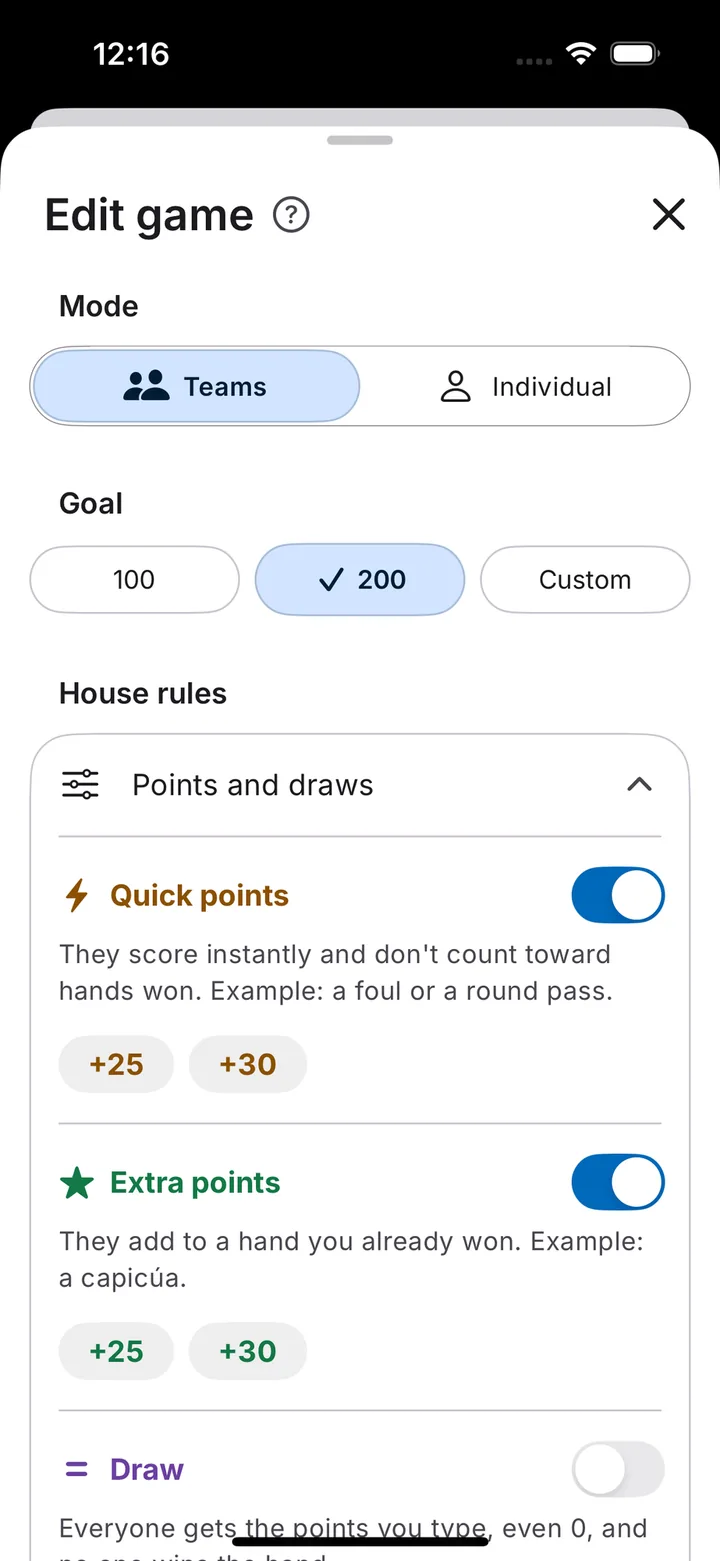
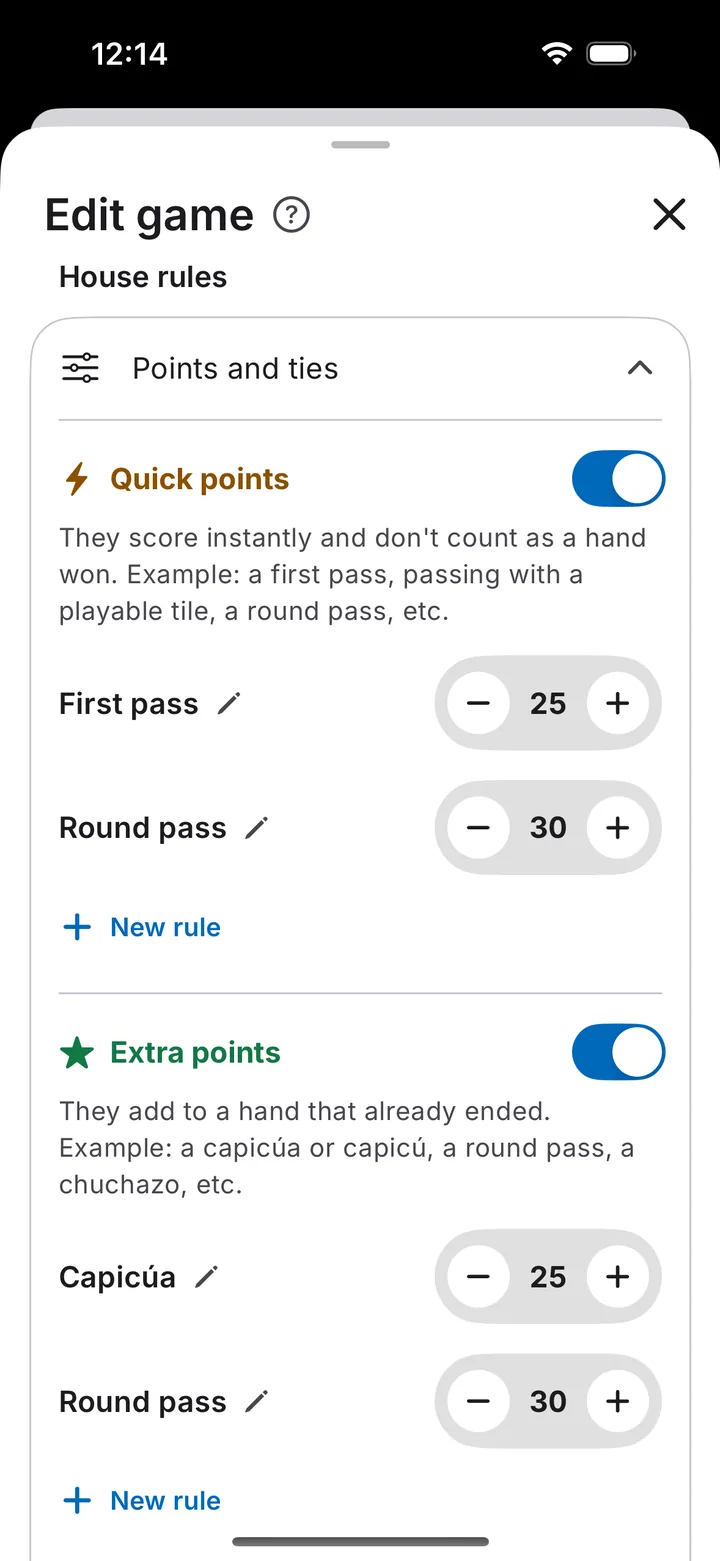
Update house-rule copy and screenshots
Clarify rule customization and bonus-point descriptions across all supported languages, and refresh the English and Spanish rule screenshots.

diff --git a/index.html b/index.html
@@ -321,11 +321,11 @@
           <div>
             <div class="icon i-green"><svg viewBox="0 0 24 24" fill="none" stroke="currentColor" stroke-width="2" stroke-linecap="round" stroke-linejoin="round" aria-hidden="true"><path d="M4 6h10"></path><path d="M18 6h2"></path><circle cx="16" cy="6" r="2"></circle><path d="M4 12h2"></path><path d="M10 12h10"></path><circle cx="8" cy="12" r="2"></circle><path d="M4 18h10"></path><path d="M18 18h2"></path><circle cx="16" cy="18" r="2"></circle></svg></div>
             <h3 data-i18n="r4.t">Tu mesa, tus reglas</h3>
-            <p data-i18n="r4.d">Juega como se juega en tu mesa. Elige la meta y activa solo las reglas que usan.</p>
+            <p data-i18n="r4.d">Juega como se juega en tu mesa. Elige la meta, cambia el nombre y los puntos de cada regla, y activa solo las que usan.</p>
             <ul class="rules">
               <li><span class="dot" style="background: var(--blue);"></span><span><b data-i18n="r4.l1b">Meta:</b> <span data-i18n="r4.l1">100, 200 o la que quieras.</span></span></li>
               <li><span class="dot" style="background: var(--gold);"></span><span><b data-i18n="r4.l2b">Puntos rápidos:</b> <span data-i18n="r4.l2">se anotan al instante.</span></span></li>
-              <li><span class="dot" style="background: var(--green);"></span><span><b data-i18n="r4.l3b">Puntos extra:</b> <span data-i18n="r4.l3">se suman a una mano que ya ganaste.</span></span></li>
+              <li><span class="dot" style="background: var(--green);"></span><span><b data-i18n="r4.l3b">Puntos extra:</b> <span data-i18n="r4.l3">se suman a una mano que ya terminó.</span></span></li>
               <li><span class="dot" style="background: #6B3FA0;"></span><span><b data-i18n="r4.l4b">Empate:</b> <span data-i18n="r4.l4">todos reciben los mismos puntos y nadie gana la mano.</span></span></li>
             </ul>
           </div>
@@ -387,7 +387,7 @@
           <li class="main"><svg viewBox="0 0 24 24" fill="none" stroke="currentColor" stroke-width="2.2" stroke-linecap="round" stroke-linejoin="round" aria-hidden="true"><path d="M6 20v-8"></path><path d="M12 20V5"></path><path d="M18 20v-11"></path></svg><div><b data-i18n="p3.t">Pantalla de juego avanzada</b><span data-i18n="p3.d">Manos ganadas y cronómetro de juego.</span></div></li>
           <li class="main"><svg viewBox="0 0 24 24" fill="none" stroke="currentColor" stroke-width="2" stroke-linecap="round" stroke-linejoin="round" aria-hidden="true"><path d="M21 12a9 9 0 1 1-9-9"></path><path d="M12 3a9 9 0 0 1 9 9h-9z"></path></svg><div><b data-i18n="p4.t">Más estadísticas</b><span data-i18n="p4.d">Mira el total de manos ganadas, la mejor mano y más.</span></div></li>
           <li><svg viewBox="0 0 24 24" fill="none" stroke="currentColor" stroke-width="2" stroke-linecap="round" stroke-linejoin="round" aria-hidden="true"><rect x="4" y="3" width="16" height="18" rx="2"></rect><path d="M8 8h3"></path><path d="M9.5 6.5v3"></path><path d="M13 8h3"></path><path d="M8 15h3"></path><path d="M13 13.5l3 3"></path><path d="M16 13.5l-3 3"></path></svg><div><b data-i18n="p5.t">Anotador con suma</b><span data-i18n="p5.d">Revisa tu nuevo total antes de anotar, como «Total: 141 + 74 = 215».</span></div></li>
-          <li><svg viewBox="0 0 24 24" fill="none" stroke="currentColor" stroke-width="2" stroke-linecap="round" stroke-linejoin="round" aria-hidden="true"><path d="M4 6h10"></path><path d="M18 6h2"></path><circle cx="16" cy="6" r="2"></circle><path d="M4 12h2"></path><path d="M10 12h10"></path><circle cx="8" cy="12" r="2"></circle><path d="M4 18h10"></path><path d="M18 18h2"></path><circle cx="16" cy="18" r="2"></circle></svg><div><b data-i18n="p6.t">Reglas de la mesa personalizables</b><span data-i18n="p6.d">Edita, elimina o crea tus propias reglas.</span></div></li>
+          <li><svg viewBox="0 0 24 24" fill="none" stroke="currentColor" stroke-width="2" stroke-linecap="round" stroke-linejoin="round" aria-hidden="true"><path d="M4 6h10"></path><path d="M18 6h2"></path><circle cx="16" cy="6" r="2"></circle><path d="M4 12h2"></path><path d="M10 12h10"></path><circle cx="8" cy="12" r="2"></circle><path d="M4 18h10"></path><path d="M18 18h2"></path><circle cx="16" cy="18" r="2"></circle></svg><div><b data-i18n="p6.t">Reglas de la mesa personalizables</b><span data-i18n="p6.d">Crea reglas nuevas además de las que vienen incluidas.</span></div></li>
           <li><svg viewBox="0 0 24 24" fill="none" stroke="currentColor" stroke-width="2" stroke-linecap="round" stroke-linejoin="round" aria-hidden="true"><path d="M7 18h10.5a4.5 4.5 0 0 0 .4-8.98A6 6 0 0 0 6.3 10.1 4 4 0 0 0 7 18z"></path></svg><div><b data-i18n="p7.t">Guardado en la nube</b><span data-i18n="p7.d">Tus partidas en cualquier teléfono.</span></div></li>
           <li><svg viewBox="0 0 24 24" fill="none" stroke="currentColor" stroke-width="2" stroke-linecap="round" stroke-linejoin="round" aria-hidden="true"><path d="M9 18h6"></path><path d="M10 21h4"></path><path d="M12 3a6 6 0 0 0-3.6 10.8c.6.5.6 1.2.6 1.7V16h6v-.5c0-.5 0-1.2.6-1.7A6 6 0 0 0 12 3z"></path></svg><div><b data-i18n="p8.t">Sugiere funciones</b><span data-i18n="p8.d">Cuéntame qué le hace falta a Tantos. Leo cada idea.</span></div></li>
         </ul>
@@ -491,10 +491,10 @@
       "r3.d": "¿Te equivocaste? Toca un punto para corregirlo o borrarlo. Los puntos editados se marcan y muestran su valor anterior, para que todos vean qué cambió.",
       "r3.alt": "Pantalla Editar punto con el valor anterior",
       "r4.t": "Tu mesa, tus reglas",
-      "r4.d": "Juega como se juega en tu mesa. Elige la meta y activa solo las reglas que usan.",
+      "r4.d": "Juega como se juega en tu mesa. Elige la meta, cambia el nombre y los puntos de cada regla, y activa solo las que usan.",
       "r4.l1b": "Meta:", "r4.l1": "100, 200 o la que quieras.",
       "r4.l2b": "Puntos rápidos:", "r4.l2": "se anotan al instante.",
-      "r4.l3b": "Puntos extra:", "r4.l3": "se suman a una mano que ya ganaste.",
+      "r4.l3b": "Puntos extra:", "r4.l3": "se suman a una mano que ya terminó.",
       "r4.l4b": "Empate:", "r4.l4": "todos reciben los mismos puntos y nadie gana la mano.",
       "r4.alt": "Pantalla Editar juego con las reglas de la mesa",
       "r5.t": "Resultados de cada partida",
@@ -515,7 +515,7 @@
       "p3.t": "Pantalla de juego avanzada", "p3.d": "Manos ganadas y cronómetro de juego.",
       "p4.t": "Más estadísticas", "p4.d": "Mira el total de manos ganadas, la mejor mano y más.",
       "p5.t": "Anotador con suma", "p5.d": "Revisa tu nuevo total antes de anotar, como «Total: 141 + 74 = 215».",
-      "p6.t": "Reglas de la mesa personalizables", "p6.d": "Edita, elimina o crea tus propias reglas.",
+      "p6.t": "Reglas de la mesa personalizables", "p6.d": "Crea reglas nuevas además de las que vienen incluidas.",
       "p7.t": "Guardado en la nube", "p7.d": "Tus partidas en cualquier teléfono.",
       "p8.t": "Sugiere funciones", "p8.d": "Cuéntame qué le hace falta a Tantos. Leo cada idea.",
       "support.eyebrow": "Ayuda", "support.title": "Soporte",
@@ -553,10 +553,10 @@
       "r3.d": "Made a mistake? Tap a point to fix it or delete it. Edited points are marked and show their previous value, so everyone sees what changed.",
       "r3.alt": "Edit point screen showing the previous value",
       "r4.t": "Your table, your rules",
-      "r4.d": "Play the way your table plays. Choose the goal and turn on only the rules you use.",
+      "r4.d": "Play the way your table plays. Choose the goal, rename any rule or change its points, and turn on only the rules you use.",
       "r4.l1b": "Goal:", "r4.l1": "100, 200 or any number you want.",
       "r4.l2b": "Quick points:", "r4.l2": "scored instantly.",
-      "r4.l3b": "Extra points:", "r4.l3": "added to a hand you already won.",
+      "r4.l3b": "Extra points:", "r4.l3": "added to a hand that already ended.",
       "r4.l4b": "Draw:", "r4.l4": "everyone gets the same points and no one wins the hand.",
       "r4.alt": "Edit game screen with house rules",
       "r5.t": "Results for every match",
@@ -577,7 +577,7 @@
       "p3.t": "Advanced game screen", "p3.d": "Hands won and a game timer.",
       "p4.t": "More stats", "p4.d": "See the total hands won, the best hand and more.",
       "p5.t": "Score sheet with the sum", "p5.d": "Check your new total before you save, like “Total: 141 + 74 = 215”.",
-      "p6.t": "Custom house rules", "p6.d": "Edit, delete or create your own rules.",
+      "p6.t": "Custom house rules", "p6.d": "Create new rules beyond the built-in ones.",
       "p7.t": "Cloud backup", "p7.d": "Your matches on any phone.",
       "p8.t": "Suggest features", "p8.d": "Tell me what Tantos is missing. I read every idea.",
       "support.eyebrow": "Help", "support.title": "Support",
@@ -621,13 +621,13 @@
       "r3.d": "Une erreur ? Touchez un point pour le corriger ou le supprimer. Les points modifiés sont signalés et affichent leur valeur précédente : tout le monde voit ce qui a changé.",
       "r3.alt": "Écran Modifier le point, avec la valeur précédente",
       "r4.t": "Votre table, vos règles",
-      "r4.d": "Jouez comme on joue à votre table. Choisissez l’objectif et activez seulement les règles que vous utilisez.",
+      "r4.d": "Jouez comme on joue à votre table. Choisissez l’objectif, renommez une règle ou changez ses points, et activez seulement celles que vous utilisez.",
       "r4.l1b": "Objectif :",
       "r4.l1": "100, 200 ou le nombre de votre choix.",
       "r4.l2b": "Points rapides :",
       "r4.l2": "marqués tout de suite.",
       "r4.l3b": "Points bonus :",
-      "r4.l3": "ajoutés à une manche que vous avez déjà gagnée.",
+      "r4.l3": "ajoutés à une manche déjà terminée.",
       "r4.l4b": "Égalité :",
       "r4.l4": "tout le monde reçoit les mêmes points et personne ne gagne la manche.",
       "r4.alt": "Écran Modifier le jeu, avec les règles de la table",
@@ -656,7 +656,7 @@
       "p5.t": "Feuille de score avec total",
       "p5.d": "Vérifiez votre nouveau total avant d’enregistrer, comme « Total : 141 + 74 = 215 ».",
       "p6.t": "Règles de la table personnalisées",
-      "p6.d": "Modifiez, supprimez ou créez vos propres règles.",
+      "p6.d": "Créez de nouvelles règles en plus de celles incluses.",
       "p7.t": "Sauvegarde dans le cloud",
       "p7.d": "Vos parties sur n’importe quel téléphone.",
       "p8.t": "Suggérez des fonctions",
@@ -711,13 +711,13 @@
       "r3.d": "Errou? Toque num ponto para corrigir ou apagar. Os pontos editados ficam marcados e mostram o valor anterior, para todo mundo ver o que mudou.",
       "r3.alt": "Tela “Editar ponto” mostrando o valor anterior",
       "r4.t": "Sua mesa, suas regras",
-      "r4.d": "Jogue do jeito da sua mesa. Escolha a meta e ligue só as regras que vocês usam.",
+      "r4.d": "Jogue do jeito da sua mesa. Escolha a meta, mude o nome e os pontos de cada regra e ligue só as que vocês usam.",
       "r4.l1b": "Meta:",
       "r4.l1": "100, 200 ou o número que você quiser.",
       "r4.l2b": "Pontos rápidos:",
       "r4.l2": "entram no placar na hora.",
       "r4.l3b": "Pontos extras:",
-      "r4.l3": "somam a uma rodada que você já ganhou.",
+      "r4.l3": "somam a uma rodada que já terminou.",
       "r4.l4b": "Empate:",
       "r4.l4": "todos recebem os mesmos pontos e ninguém ganha a rodada.",
       "r4.alt": "Tela “Editar jogo” com as regras da mesa",
@@ -746,7 +746,7 @@
       "p5.t": "Placar com a soma",
       "p5.d": "Confira seu novo total antes de salvar, como “Total: 141 + 74 = 215”.",
       "p6.t": "Regras da mesa personalizadas",
-      "p6.d": "Edite, exclua ou crie suas próprias regras.",
+      "p6.d": "Crie novas regras além das que já vêm no app.",
       "p7.t": "Backup na nuvem",
       "p7.d": "Suas partidas em qualquer celular.",
       "p8.t": "Sugira recursos",
@@ -801,13 +801,13 @@
       "r3.d": "أخطأت؟ اضغط على نقطة لتصحيحها أو حذفها. تُميَّز النقاط المعدّلة وتعرض قيمتها السابقة، ليرى الجميع ما تغيّر.",
       "r3.alt": "شاشة «تعديل النقطة» وتظهر فيها القيمة السابقة",
       "r4.t": "طاولتك، قواعدك",
-      "r4.d": "العب كما تلعب طاولتك. اختر الهدف وفعّل القواعد التي تستخدمها فقط.",
+      "r4.d": "العب كما تلعب طاولتك. اختر الهدف، وغيّر اسم أي قاعدة أو نقاطها، وفعّل القواعد التي تستخدمها فقط.",
       "r4.l1b": "الهدف:",
       "r4.l1": "100 أو 200 أو أي رقم تريده.",
       "r4.l2b": "النقاط السريعة:",
       "r4.l2": "تُسجَّل فورًا.",
       "r4.l3b": "النقاط الإضافية:",
-      "r4.l3": "تُضاف إلى جولة ربحتها.",
+      "r4.l3": "تُضاف إلى جولة انتهت بالفعل.",
       "r4.l4b": "التعادل:",
       "r4.l4": "يحصل الجميع على النقاط نفسها ولا يربح أحد الجولة.",
       "r4.alt": "شاشة «تعديل اللعبة» مع قواعد الطاولة",
@@ -836,7 +836,7 @@
       "p5.t": "ورقة تسجيل تحسب المجموع",
       "p5.d": "راجع مجموعك الجديد قبل الحفظ، مثل «المجموع: 141 + 74 = 215».",
       "p6.t": "قواعد طاولة مخصّصة",
-      "p6.d": "عدّل قواعدك أو احذفها أو أنشئ قواعد خاصة بك.",
+      "p6.d": "أنشئ قواعد جديدة إلى جانب القواعد المضمّنة.",
       "p7.t": "النسخ الاحتياطي السحابي",
       "p7.d": "مبارياتك على أي هاتف.",
       "p8.t": "اقتراح ميزات",
